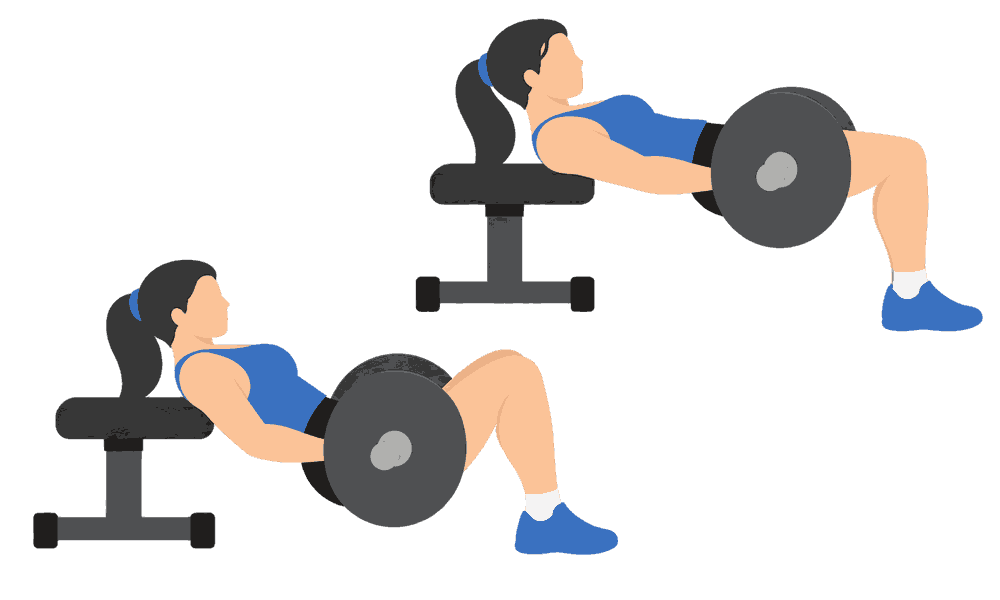
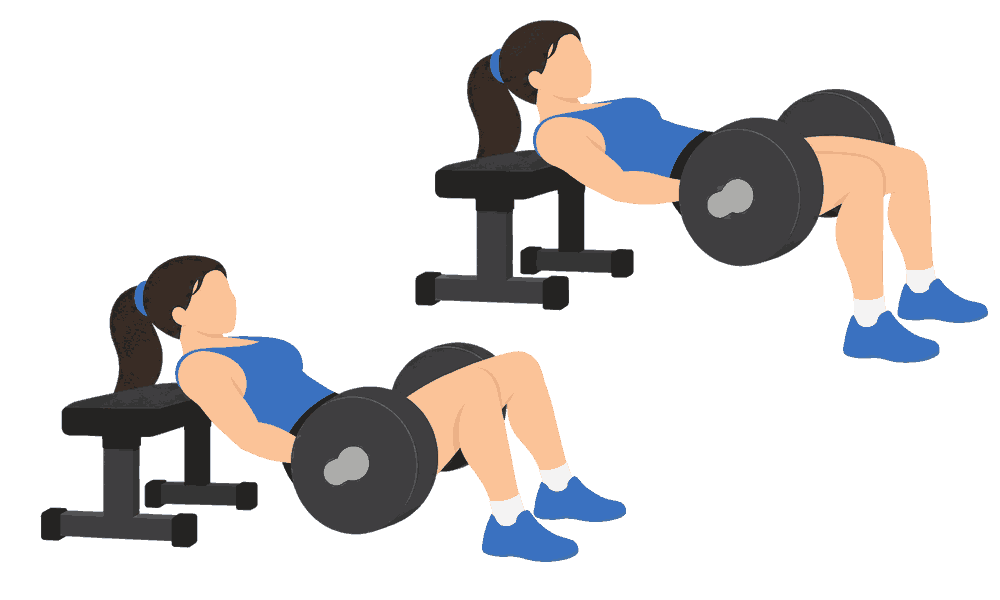
Take the better hip thrust render
576 KB down to 15 KB. Slightly larger than the render it replaces and worth it:
the plates keep the darker rim that the rest of the set has and the previous
one had flattened away, and speckle drops from 3.35% to 3.06%.

Note alongside it that we should only draw lifts whose equipment the name
already implies. Hip Thrust needs no "Barbell" prefix because there is no other
way to do it, so one drawing serves everyone who logs it. A curl is not like
that, and a barbell curl drawing would be wrong for the dumbbells half the
people logging "Curl" actually used. That is a constraint on which lifts can
have artwork at all, not just on what we call them.

diff --git a/src/components/lift-artwork.js b/src/components/lift-artwork.js
@@ -22,6 +22,10 @@
  *    comes out narrow: the front squat fills 50% of its width, the overhead
  *    squat 94%.
  *  - Camera is an editorial choice, per lift and per figure.
+ *  - Only draw lifts whose equipment the name already implies. A hip thrust is
+ *    always a barbell, so one drawing serves everyone who logs it. A curl is
+ *    not, so a barbell curl drawing would be wrong for the dumbbells half the
+ *    people logging "Curl" actually used.
  *  - So is the sex of the figure. Keep the catalogue near an even split, with
  *    women on some of the heavy compounds, so it reads as mixed to a
  *    first-time visitor who has told us nothing.
